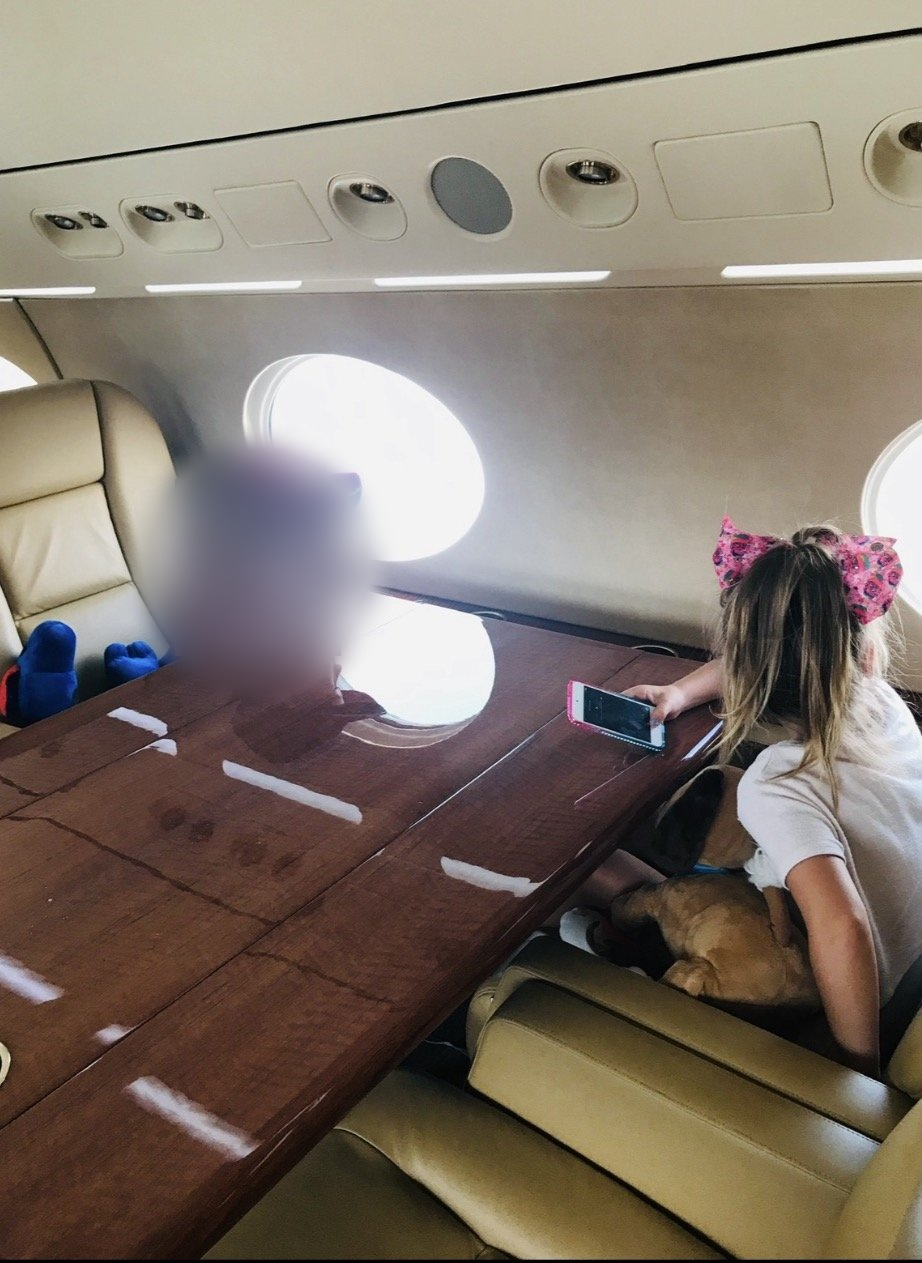
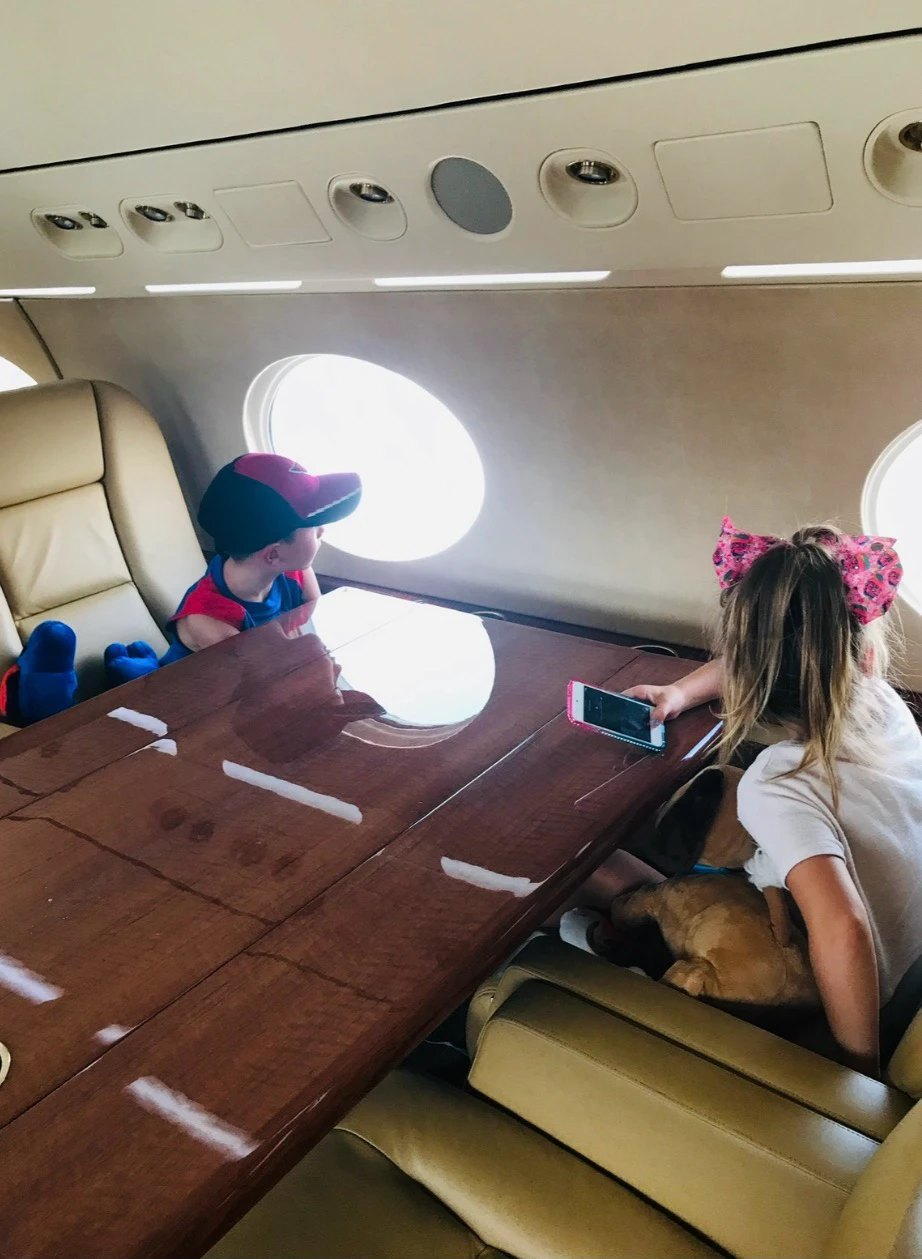
Gallery: Jen's plain jet photo and five new photos
- Slide 91 (nov4-07 private jet) is Jen's plain original, no blur (Adam's
  decision), with a 4px black line cropped off the bottom.
- Five new photos at the end, no captions: Airstream, Childhelp WINGS
  photo booth, a night out, floral dresses, Spartan team. Phone bands
  cropped off the WINGS and night-out shots; nothing else edited; no
  metadata. None duplicates an existing photo. Gallery is now 121 slides.

diff --git a/app/components/PhotoGallery.js b/app/components/PhotoGallery.js
@@ -276,7 +276,7 @@ const OCT26 = [
 // November 4 batch, after OCT26. No captions (Jen). Children's faces and
 // the names on the pajama shirts are blurred; screenshots cropped to the photo.
 const NOV4 = [
-  // Nov 5, 2026: nov4-01, nov4-03 and nov4-06 are Jen's own originals, shown with
+  // Nov 5, 2026: nov4-01, nov4-03, nov4-06 and nov4-07 are Jen's own originals, shown with
   // NO blur, on Adam's explicit decision ("No blur at all", names on the pajama
   // shirts included). This is a deliberate exception to the kids rule in
   // AGENTS.md. Do not re-blur or swap these without asking Adam and Jen.
@@ -286,7 +286,7 @@ const NOV4 = [
   { src: '/assets/gallery-nov4/nov4-04-dogs-and-tortoises.jpg', alt: 'Five rescues and two tortoises on the grass', caption: '', width: 1102, height: 863 },
   { src: '/assets/gallery-nov4/nov4-05-ski-gondola.jpg', alt: 'Jen Archuleta with a toddler on a ski gondola', caption: '', width: 1289, height: 1600 },
   { src: '/assets/gallery-nov4/nov4-06-beach-bodyboard.jpg', alt: 'A dad and kids walking to the beach with a yellow bodyboard', caption: '', width: 1320, height: 1165 },
-  { src: '/assets/gallery-nov4/nov4-07-private-jet.jpg', alt: 'Two kids inside a private jet', caption: '', width: 922, height: 1263 },
+  { src: '/assets/gallery-nov4/nov4-07-private-jet.jpg', alt: 'Two kids inside a private jet', caption: '', width: 922, height: 1259 },
   { src: '/assets/gallery-nov4/nov4-08-book-signing.jpg', alt: 'Jen Archuleta at her book signing', caption: '', width: 1155, height: 876 },
   { src: '/assets/gallery-nov4/nov4-09-playboy-collage.jpg', alt: 'Collage of Jen Archuleta from Playboy', caption: '', width: 1320, height: 1202 },
   { src: '/assets/gallery-nov4/nov4-10-white-bikini-studio.jpg', alt: 'Jen Archuleta in a white bikini, studio photo', caption: '', width: 400, height: 242 },
@@ -358,9 +358,19 @@ const FROM_ABOUT = [
   { src: '/assets/jen-fitness.jpg', alt: 'Jen Archuleta, fit at 50', caption: '', width: 904, height: 833 },
 ];
 
+// Jen's photos sent November 5 (evening), at the end of the slideshow, no
+// captions. Phone bands cropped off 02 and 03; no other edits, no metadata.
+const NOV5 = [
+  { src: '/assets/gallery-nov5/nov5-01-airstream.jpg', alt: 'Jen Archuleta and a friend in beanies in front of a vintage Airstream trailer', caption: '', width: 960, height: 1706 },
+  { src: '/assets/gallery-nov5/nov5-02-childhelp-wings-booth.jpg', alt: 'Jen Archuleta with friends at the Childhelp WINGS Fashion Show Luncheon photo booth', caption: '', width: 923, height: 919 },
+  { src: '/assets/gallery-nov5/nov5-03-night-out.jpg', alt: 'Jen Archuleta and friends making playful faces on a night out', caption: '', width: 923, height: 688 },
+  { src: '/assets/gallery-nov5/nov5-04-floral-dresses.jpg', alt: 'Jen Archuleta and four friends in floral dresses by a pool', caption: '', width: 1224, height: 1224 },
+  { src: '/assets/gallery-nov5/nov5-05-spartan-team.jpg', alt: 'Jen Archuleta and her team with medals after a Spartan race', caption: '', width: 1320, height: 1650 },
+];
+
 // Every photo defined above, in the November 3 order, minus slides Jen had
 // already taken out (HIDDEN_SLIDE_SRC) and the November 5 removals.
-const ALL_SLIDES = [...HOLLYWOOD, ...PORTRAITS, ...FAMILY, ...FAMILY_OCT27, ...NOV3, ...GALLERY_NEW, ...PICKS, ...OCT26, ...NOV4, ...CHILDHOOD, ...NOV4B, ...FROM_ABOUT]
+const ALL_SLIDES = [...HOLLYWOOD, ...PORTRAITS, ...FAMILY, ...FAMILY_OCT27, ...NOV3, ...GALLERY_NEW, ...PICKS, ...OCT26, ...NOV4, ...CHILDHOOD, ...NOV4B, ...FROM_ABOUT, ...NOV5]
   .filter((slide) => !HIDDEN_SLIDE_SRC.has(slide.src));
 
 // November 5: gallery-new/new_37 (a news clipping) is removed, file and all.

diff --git a/docs/photo-changes-2026-11-05.md b/docs/photo-changes-2026-11-05.md
@@ -87,3 +87,16 @@ AGENTS.md; do not re-blur them without asking Adam and Jen.
 | `gallery-nov4/nov4-01-christmas-tree.jpg` | Soft rectangle blur over the child on the ladder and the child at the bottom | Jen's original, no blur |
 | `gallery-nov4/nov4-03-christmas-pajamas.jpg` | Solid blocks over the children and the names on their shirts | Jen's original, no blur |
 | `gallery-nov4/nov4-06-beach-bodyboard.jpg` | Hard-edged blurs over the held child and the two boys | Jen's original, no blur |
+
+## Evening: slide 91 replaced, five photos added
+
+| File | Change |
+|---|---|
+| `gallery-nov4/nov4-07-private-jet.jpg` | Jen's plain original (no blur); a 4px black line on the bottom edge cropped off (922x1259). Same no-blur decision as above. |
+| `gallery-nov5/nov5-01-airstream.jpg` | New. Whole photo. |
+| `gallery-nov5/nov5-02-childhelp-wings-booth.jpg` | New. Black phone bands (top and bottom) cropped off. |
+| `gallery-nov5/nov5-03-night-out.jpg` | New. Brown phone bands (top and bottom) cropped off. |
+| `gallery-nov5/nov5-04-floral-dresses.jpg` | New. Whole photo. |
+| `gallery-nov5/nov5-05-spartan-team.jpg` | New. Whole photo, resized to 1320 wide. |
+
+All saved fresh as JPEG with no metadata. Checked against every image on the site: none is a duplicate.
